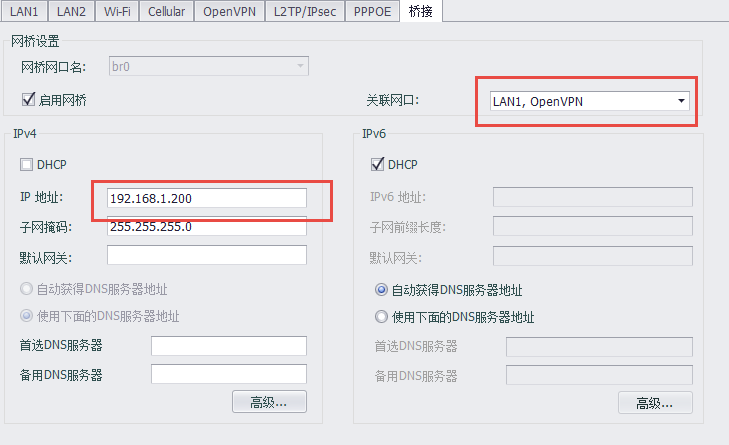
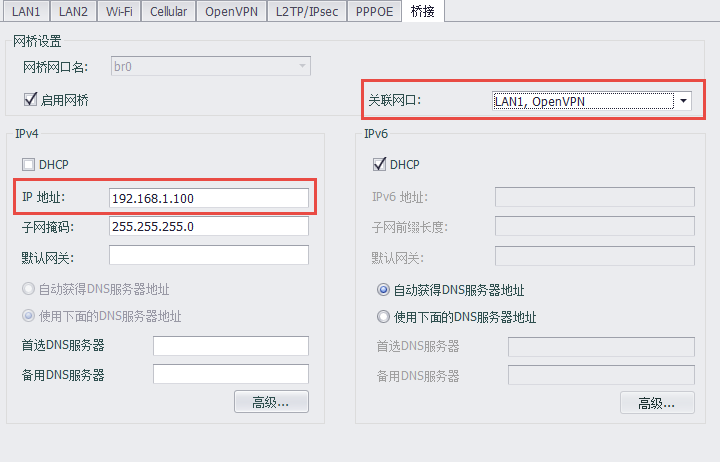
update

diff --git a/docs/zh-CN/PLC Remote Maintenance/TCP.md b/docs/zh-CN/PLC Remote Maintenance/TCP.md
@@ -15,12 +15,12 @@
 
 ![](./TCP002.png)
 
-2. 在控制中心打开PLC通讯软件对PLC进行配置
+2. 在控制中心打开PLC通讯软件对PLC进行配置(此时通讯软件连接10.0.3.6即可将配置下发到192.168.1.4)
 
 
 ### 场景2
 
-网关的一个网口连接多台PLC（如果现场有多台网关，请注意：每台网关下接的PLC IP地址不可重复），此时可以用网络桥接实现远程运维
+网关的一个网口连接多台PLC（如果现场有多台网关，请注意：每台网关下接的PLC IP地址不可重复），此时可以用网络桥接实现远程运维（因为用到桥接功能，请将VPN设置为tap模式）
 
 ![](TCP003.png)
 
@@ -30,16 +30,16 @@
 
 1. 部署VPN时，将IP地址设置为与PLC在同一网段
 
-2. 通过EdgeLink Studio设置将VPN与LAN1桥接在一起，下载至网关，举例：br0 IP设置为：192.168.1.200
+2. 通过EdgeLink Studio设置将VPN与LAN1桥接在一起，下载至网关，举例：br0 IP设置为：192.168.1.100
 
 ![](TCP004.png)
 
-3. 在控制中心打开PLC通讯软件对PLC进行配置
+3. 在控制中心打开PLC通讯软件对PLC进行配置（通讯软件直接连接192.168.1.10进行配置）
 
 
 ### 场景3
 
-网关的一个网口连接多台PLC,且多台网关下连接的PLC IP地址重复，此时需要用到虚拟组网功能实现远程运维。（场景1和场景2同样可以通过虚拟组网实现远程运维，因为端口转发和网络桥接配置更简单，容易上手，所以推荐场景1和场景2的用法）
+网关的一个网口连接多台PLC,且多台网关下连接的PLC IP地址重复，如图所示。此时需要用到虚拟组网功能实现远程运维。（场景1和场景2同样可以通过虚拟组网实现远程运维，因为端口转发和网络桥接配置更简单，容易上手，所以推荐场景1和场景2的用法）
 
 ![](TCP005.png)
 
@@ -53,7 +53,7 @@
 
 ![](TCP007.png)
 
-3. 在控制中心打开PLC通讯软件对PLC进行配置
+3. 在控制中心打开PLC通讯软件对PLC进行配置（通讯软件连接10.3.20.18进行网关1连接的PLC1配置）
 
 **虚拟组网详细配置介绍请参考[2.9.1.6 虚拟组网](../systemsetting/VirtualNetwork.html)章节**
 

diff --git a/docs/_sidebar.md b/docs/_sidebar.md
@@ -167,10 +167,8 @@
       - [新建工程](zh-CN/EdgeLinkStudio/工程管理/新建工程/NewProject.md)
       - [工程下载](zh-CN/EdgeLinkStudio/工程管理/工程下载/Download.md)
       - [网关管理](zh-CN/EdgeLinkStudio/工程管理/工程配置/网关管理/)
-          - [删除网关](zh-CN/EdgeLinkStudio/工程管理/工程配置/网关管理/删除网关/)
-            - [delete](zh-CN/EdgeLinkStudio/工程管理/工程配置/网关管理/删除网关/delete.md)
-          - [复制网关](zh-CN/EdgeLinkStudio/工程管理/工程配置/网关管理/复制网关/)
-            - [samecopy](zh-CN/EdgeLinkStudio/工程管理/工程配置/网关管理/复制网关/samecopy.md)
+          - [删除网关](zh-CN/EdgeLinkStudio/工程管理/工程配置/网关管理/删除网关/delete.md)
+          - [复制网关](zh-CN/EdgeLinkStudio/工程管理/工程配置/网关管理/复制网关/samecopy.md)
           - [添加网关](zh-CN/EdgeLinkStudio/工程管理/工程配置/网关管理/添加网关/AddDevice.md)
             - [添加空白网关](zh-CN/EdgeLinkStudio/工程管理/工程配置/网关管理/添加网关/添加空白网关/blank.md)
             - [从已有网关拷贝](zh-CN/EdgeLinkStudio/工程管理/工程配置/网关管理/添加网关/从已有网关拷贝/Copy.md)
